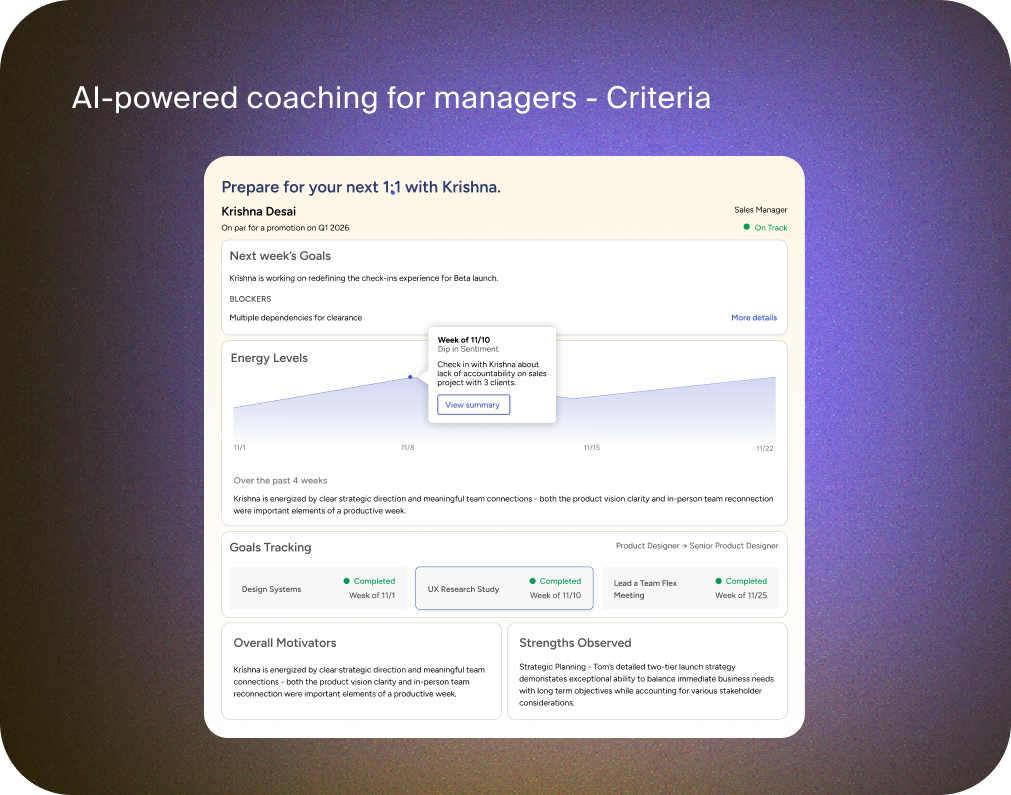
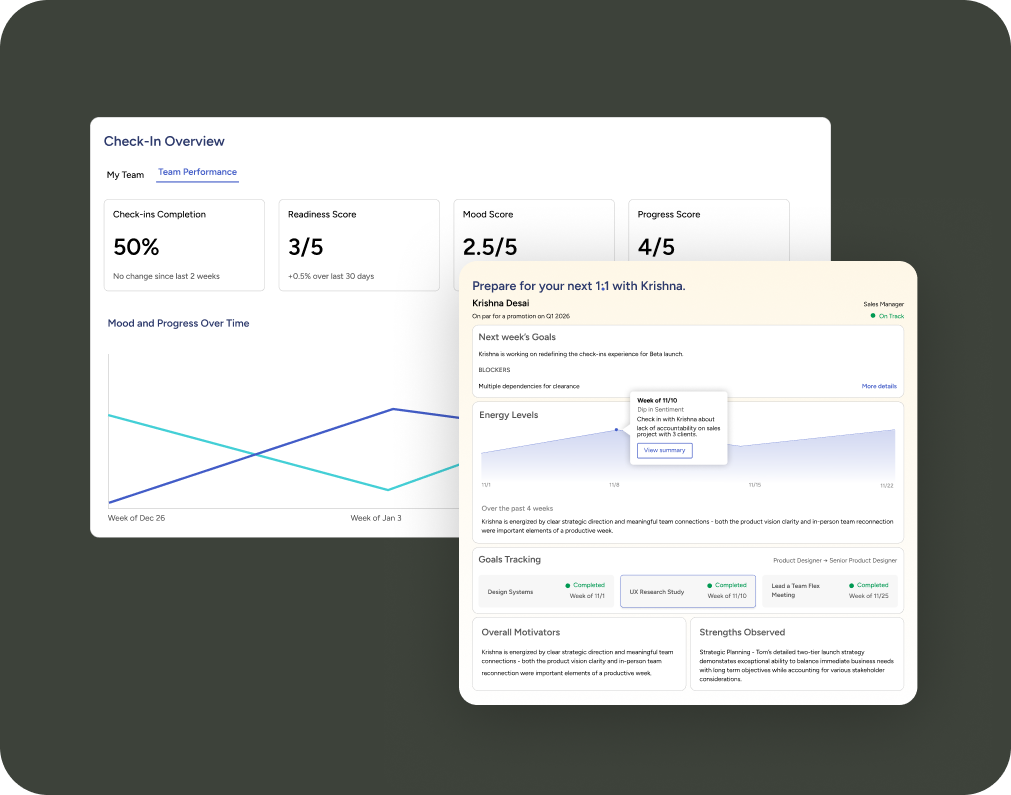
Added it

diff --git a/src/Home.js b/src/Home.js
@@ -130,7 +130,7 @@ const CARDS = {
       company: "Fika",
       description: "Connecting creatives over coffee",
       bg: "#4B44AF",
-      image: "/images/fika.png",
+      image: "/images/fika123.png",
       slug: "fika",
     },
     {
@@ -144,20 +144,20 @@ const CARDS = {
       company: "Honeybee Health",
       description: "Enabling physicians to prescribe medications with privacy",
       bg: "#0D1917",
-      image: "/images/honeybee.png",
+      image: "/images/HBH.png",
       slug: "honeybee-health",
     },
     {
       company: "Square",
       description: "Credit options for small businesses",
       bg: "#3D5445",
-      image: "/images/square.png",
+      image: "/images/Square.png",
       slug: "square",
     },
     {
       company: "Co-op Solutions",
       description: "Modernizing Legacy Credit union software",
-      image: "/images/philosophie_dashboard.png",
+      image: "/images/Springboard.png",
       fullWidth: true,
     },
   ],
